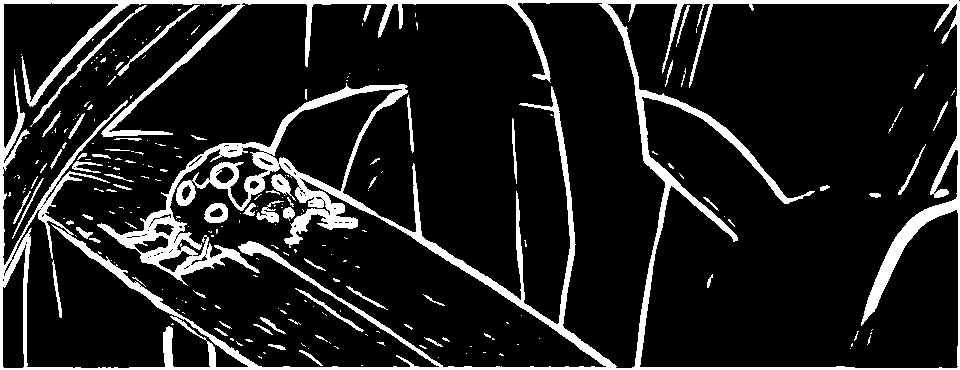
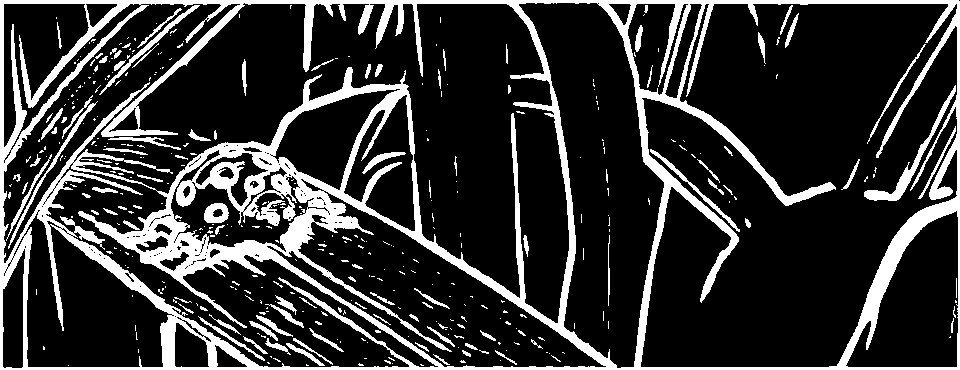
Adding license

diff --git a/Image_Edge_Detection/src/main.cpp b/Image_Edge_Detection/src/main.cpp
@@ -29,7 +29,7 @@ int main(int argc, char* argv[])
 
 		my_png->Encode_From_Disk("testxAB5.png");
 
-		my_png->Apply_Threshold(87);
+		my_png->Apply_Threshold(80);
 
 		my_png->Encode_From_Disk("threshold.png");
 
